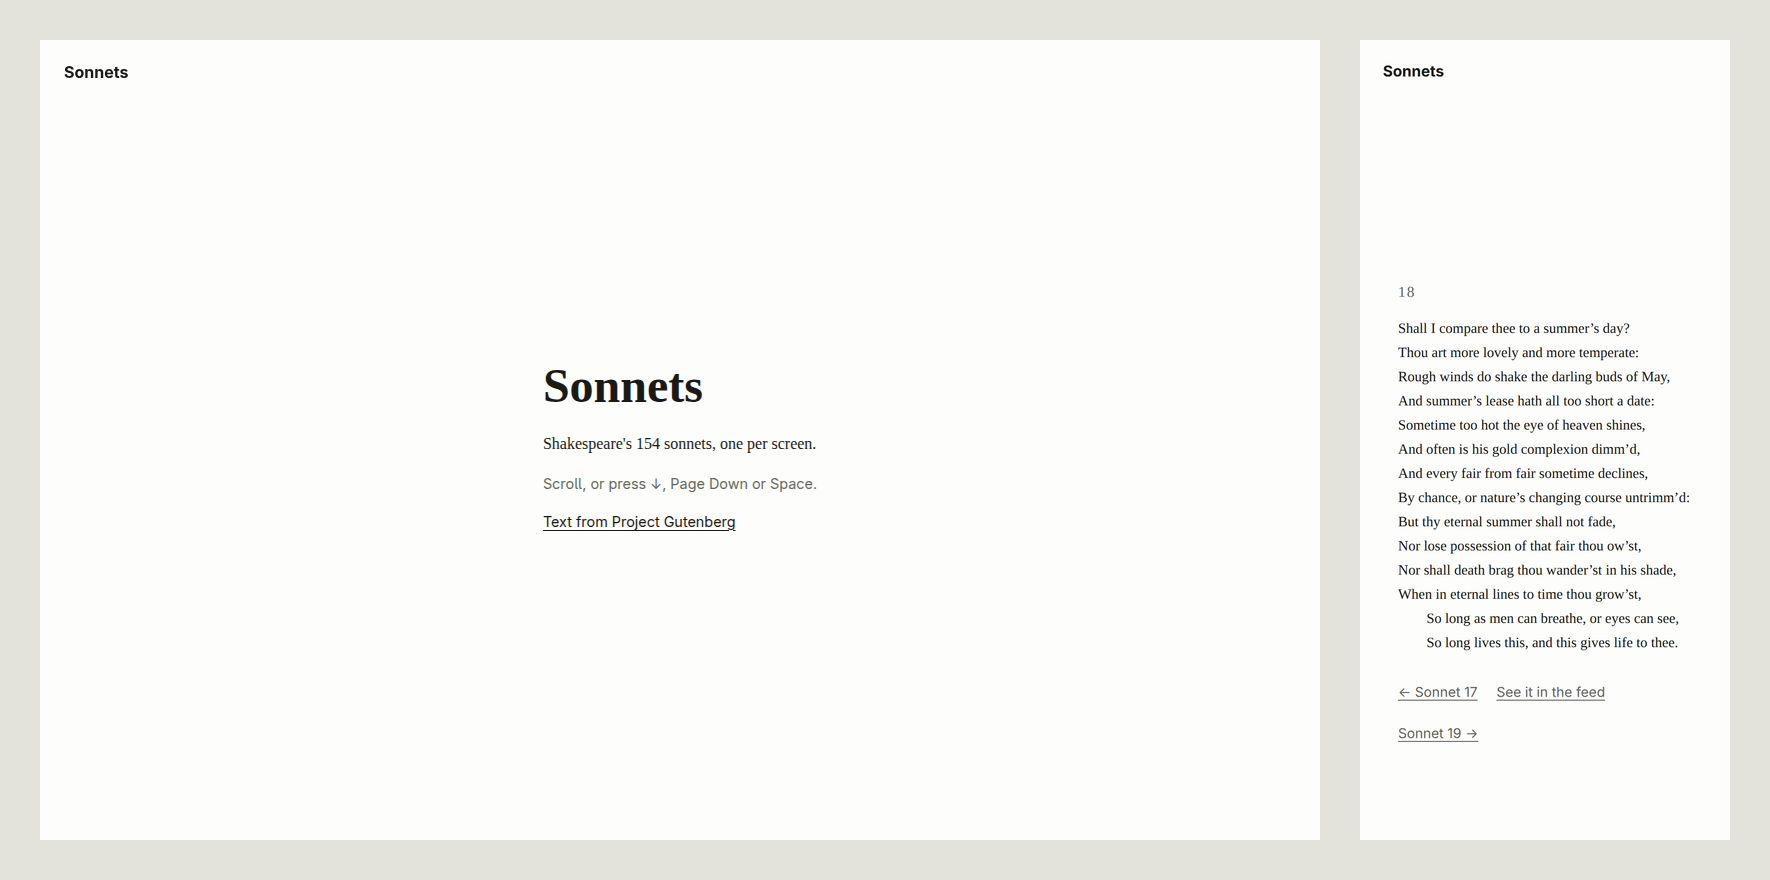
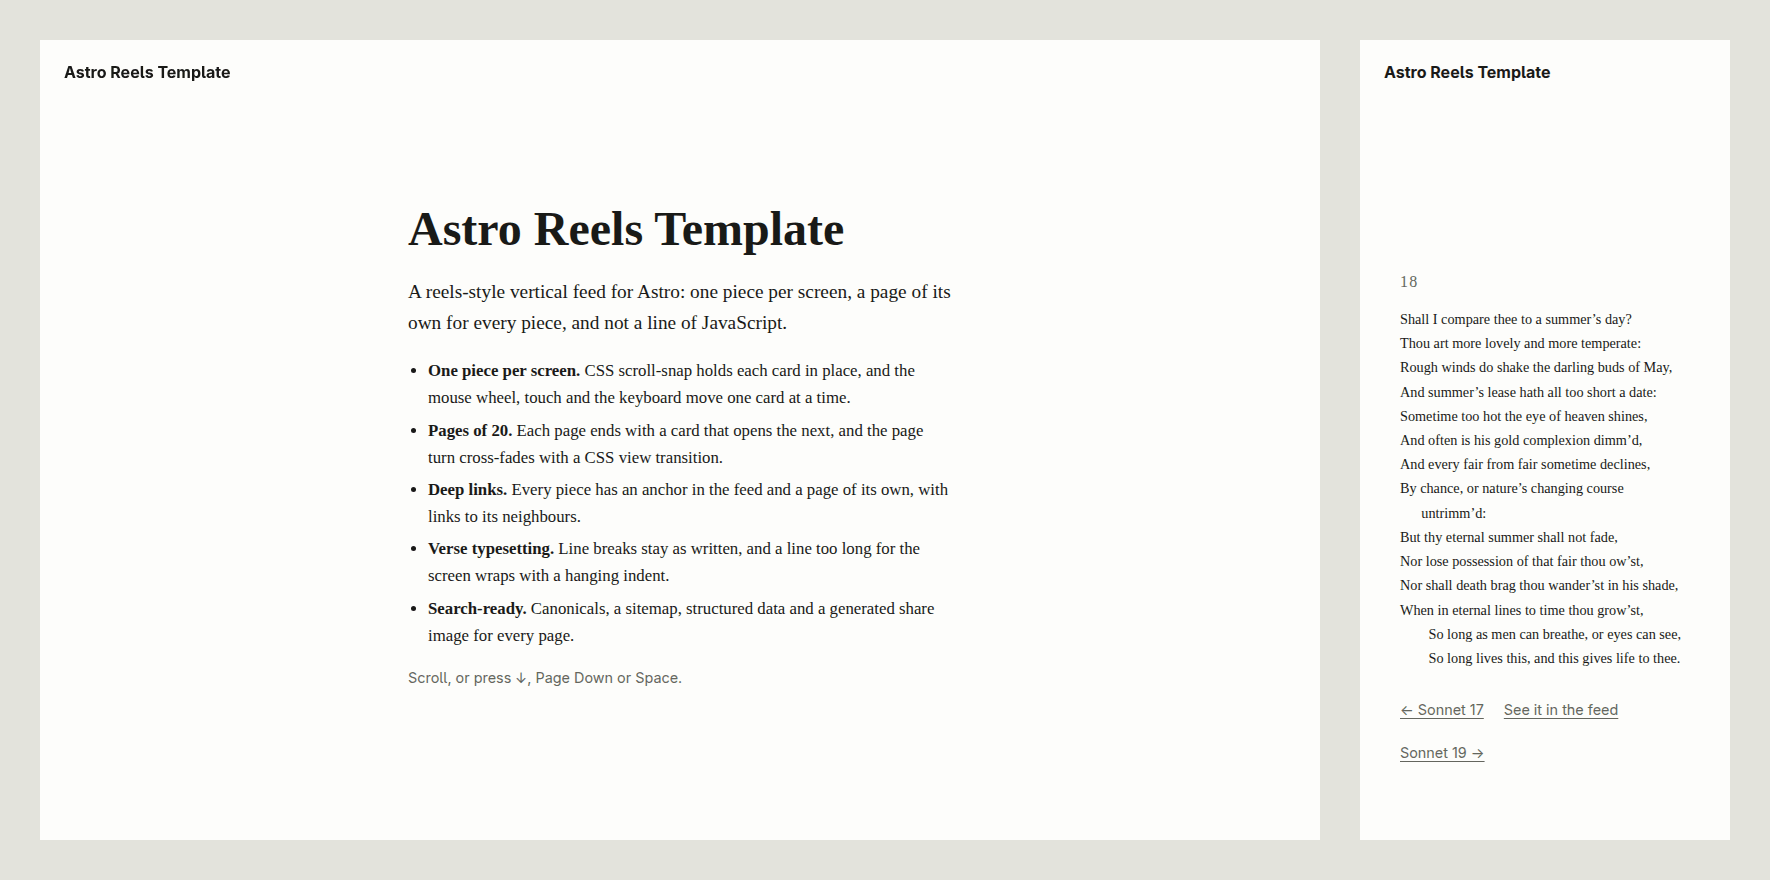
feat: introduce the template on the home page (#1)
* feat: introduce the template on the first feed cards

The demo was named "Sonnets", so its home page, the one page search engines index, described Shakespeare rather than the template, in eight words. It is now the Astro Reels Template, and the cards before the first sonnet say what the template is and does, how to start a project from it, and that the sonnets are public-domain demo content, with links to the source and the author: some 260 words of real HTML that need no JavaScript.

The cards live in src/components/Intro.astro so forks rewrite them in one place, and they are split in two so each fits a phone screen. The README gains the create command and the new step, and the screenshot shows the new first card.

* docs: add an SEO checklist to the README

A fork inherits the search setup without seeing it. The checklist lists what the template already does, explains the indexPieces option and what it changes, and names the values a fork must set before launch, ending with submitting the sitemap.

diff --git a/tests/build.test.ts b/tests/build.test.ts
@@ -149,8 +149,19 @@ test('no page ships JavaScript', () => {
   for (const file of allHtml(dist)) assert.deepEqual(scriptsOtherThanJsonLd(readFileSync(file, 'utf8')), [], file.pathname);
 });
 
-test('the intro card takes its line and source credit from the config', () => {
+test('the welcome cards take their line and source credit from the config', () => {
   const html = read('index.html');
-  assert.match(html, new RegExp(`<p>${esc(siteConfig.intro.replace(/'/g, '&#39;'))}</p>|<p>${esc(siteConfig.intro)}</p>`));
+  assert.match(html, new RegExp(`<p class="lead">${esc(siteConfig.intro.replace(/'/g, '&#39;'))}</p>|<p class="lead">${esc(siteConfig.intro)}</p>`));
   assert.match(html, new RegExp(`<a href="${esc(siteConfig.credit.href)}"[^>]*>${esc(siteConfig.credit.text)}</a>`));
+});
+
+test('the home page explains the template in its own words, before the first sonnet', () => {
+  const html = read('index.html');
+  const own = html.slice(html.indexOf('<main'), html.indexOf('<section class="card sonnet"'));
+  const words = own.replace(/<[^>]+>/g, ' ').split(/\s+/).filter((w) => /\w/.test(w));
+  assert.ok(words.length >= 250, `${words.length} words`);
+  assert.match(own, /<code>pnpm create astro@latest --template cevdetch\/astro-reels-template<\/code>/);
+  assert.match(own, /Shakespeare&#39;s 154 sonnets|Shakespeare's 154 sonnets/);
+  assert.match(own, new RegExp(`<a href="${esc(siteConfig.repository!)}">`));
+  assert.match(own, new RegExp(`<a href="${esc(siteConfig.author!.url!)}">Made by ${esc(siteConfig.author!.name)}</a>`));
 });

diff --git a/src/config.ts b/src/config.ts
@@ -1,14 +1,15 @@
-// Everything a template user changes lives here (plus the icons in public/).
+// Everything a template user changes lives here, plus the icons in public/ and the welcome cards in
+// src/components/Intro.astro.
 export const siteConfig: SiteConfig = {
-  name: 'Sonnets',
-  tagline: "Shakespeare's sonnets, one at a time",
-  description: "All 154 of Shakespeare's sonnets in a reels-style feed: one sonnet per screen, readable without JavaScript.",
+  name: 'Astro Reels Template',
+  tagline: 'a vertical feed with zero JavaScript',
+  description: "A zero-JavaScript, reels-style vertical feed template for Astro: one piece per screen and a page for each, demoed with Shakespeare's 154 sonnets.",
   origin: 'https://astro-reels-template.cevdet.ch',
   /** The path of feed page 1; later pages live at `<feedBase>page/<n>/`. */
   feedBase: '/',
   /** First feed card: one line under the name. */
-  intro: "Shakespeare's 154 sonnets, one per screen.",
-  /** Credit for the content, shown small on the first feed card. */
+  intro: 'A reels-style vertical feed for Astro: one piece per screen, a page of its own for every piece, and not a line of JavaScript.',
+  /** Credit for the content, shown on the welcome cards. */
   credit: { text: 'Text from Project Gutenberg', href: 'https://www.gutenberg.org/ebooks/1041' },
   /**
    * Whether search engines index each piece's page and the feed pages after the first. Leave it

diff --git a/src/styles/feed.css b/src/styles/feed.css
@@ -29,6 +29,15 @@
   .card-links { display: flex; flex-wrap: wrap; gap: 1.25rem; margin-block-start: 1.75rem; font-family: system-ui, sans-serif; font-size: 0.9rem; }
   .card-links a { color: var(--muted); }
   .intro h1 { margin: 0 0 0.5rem; font-size: clamp(2rem, 1.5rem + 2vw, 3rem); }
+  /* The welcome cards: prose rather than verse, sized to fit one phone screen each. */
+  .about { font-size: clamp(0.95rem, 0.9rem + 0.25vw, 1.05rem); }
+  .about .lead { font-size: 1.15em; }
+  .about h2 { margin: 1.5rem 0 0.5rem; font-size: 1.35em; }
+  .about h2:first-child { margin-block-start: 0; }
+  .about ul { padding-inline-start: 1.25rem; }
+  .about li + li { margin-block-start: 0.35rem; }
+  .about pre { margin: 0.75rem 0; padding: 0.75rem 1rem; border-radius: 4px; background: var(--bg-sunk); white-space: pre-wrap; overflow-wrap: anywhere; }
+  .about code { font-family: ui-monospace, "SF Mono", Menlo, Consolas, monospace; font-size: 0.85em; }
   .hint { color: var(--muted); font-family: system-ui, sans-serif; font-size: 0.9rem; }
   .next a, .previous a { font-size: 1.25rem; }
 
@@ -44,6 +53,9 @@
   @media (max-height: 780px) {
     .card { padding-block: 4rem 2rem; }
     .verse { line-height: 1.55; }
+    .about { line-height: 1.45; }
+    .about h2 { margin-block-start: 1rem; }
+    .about p, .about ul { margin-block: 0.6rem; }
   }
 }
 

diff --git a/tests/seo.test.ts b/tests/seo.test.ts
@@ -8,16 +8,16 @@ const ctx = (pathname: string, extra: Partial<SeoContext> = {}): SeoContext =>
 
 test('the home page title is the site name, a colon and the tagline', async () => {
   const seo = await resolveSeo({ description: 'A description.' }, ctx('/'));
-  assert.equal(SITE_NAME, 'Sonnets');
-  assert.equal(HOME_TITLE, "Sonnets: Shakespeare's sonnets, one at a time");
+  assert.equal(SITE_NAME, 'Astro Reels Template');
+  assert.equal(HOME_TITLE, 'Astro Reels Template: a vertical feed with zero JavaScript');
   assert.equal(seo.title, HOME_TITLE);
   assert.equal(seo.ogTitle, SITE_NAME);
   assert.equal(seo.canonicalUrl, 'https://example.test/');
 });
 
-test('other pages lead with their title, end in " · Sonnets" and get a self canonical', async () => {
+test('other pages lead with their title, end in " · <site name>" and get a self canonical', async () => {
   const seo = await resolveSeo({ title: 'About', description: 'About this site.' }, ctx('/about/'));
-  assert.equal(seo.title, 'About · Sonnets');
+  assert.equal(seo.title, 'About · Astro Reels Template');
   assert.equal(seo.robots, undefined);
   assert.equal(seo.ogTitle, 'About');
   assert.equal(seo.canonicalUrl, 'https://example.test/about/');

diff --git a/README.md b/README.md
@@ -32,6 +32,15 @@ share sheet; each piece's own page is the link to share.
 - Node.js 24.8.0 or newer
 - pnpm 12.3.4, pinned in `package.json`
 
+## Start a project
+
+```sh
+pnpm create astro@latest --template cevdetch/astro-reels-template
+```
+
+Or create a repository with [Use this template](https://github.com/cevdetch/astro-reels-template/generate)
+and clone it.
+
 ## Commands
 
 | Command | Purpose |
@@ -47,7 +56,7 @@ share sheet; each piece's own page is the link to share.
 ## Make it yours
 
 1. **Site details.** Edit `src/config.ts`: the name, tagline, description, production `origin`,
-   the line and credit on the first card, and `feedBase` if the feed should live somewhere other
+   the line and credit on the welcome cards, and `feedBase` if the feed should live somewhere other
    than `/`. Set `author` to yourself and `repository` to your source code: the footer of every
    page credits both, and the home page's `WebSite` structured data names the author as its
    publisher. Either can be left out.
@@ -56,8 +65,11 @@ share sheet; each piece's own page is the link to share.
    the first carry `<meta name="robots" content="noindex, follow">` and are left out of the
    sitemap, so search engines index only the first feed page but still follow its links. Set it
    to `true` when the pieces are your own, and every page goes into search and the sitemap.
-3. **Icons.** Replace the files in `public/`; the share images reuse `public/icon.svg`.
-4. **Pieces.** Each piece is a Markdown file in `src/content/sonnets/`:
+3. **Welcome cards.** `src/components/Intro.astro` holds the cards before the first piece. They
+   introduce this template; say what your site is instead. They are the text search engines read
+   on your home page.
+4. **Icons.** Replace the files in `public/`; the share images reuse `public/icon.svg`.
+5. **Pieces.** Each piece is a Markdown file in `src/content/sonnets/`:
 
    ```markdown
    ---
@@ -75,12 +87,12 @@ share sheet; each piece's own page is the link to share.
    line of the body is a line on the page. Start a line with two spaces or two em spaces to
    indent it; a blank line starts a new stanza. The body is shown as plain lines, not formatted
    Markdown.
-5. **Words.** The section is called `sonnets` in the content folder, `src/content.config.ts`,
+6. **Words.** The section is called `sonnets` in the content folder, `src/content.config.ts`,
    the routes under `src/pages/sonnets/`, `src/lib/sonnets.ts` and `PIECES_PATH` in
    `src/lib/seo.ts`. The share-image label lives in `SECTIONS` in `src/lib/social-card.ts`, and
    the pieces' author in their structured data in `src/lib/identity.ts`. Rename them together for
    your own kind of piece.
-6. **Page size.** `PAGE_SIZE` in `src/lib/feed.ts`.
+7. **Page size.** `PAGE_SIZE` in `src/lib/feed.ts`.
 
 ## Deploy
 
@@ -88,6 +100,39 @@ share sheet; each piece's own page is the link to share.
 static hosts such as Cloudflare Pages, Netlify and GitHub Pages serve from `index.html` files.
 Set `origin` in `src/config.ts` to the production address first: canonicals, the sitemap and
 share images use it.
+
+## SEO checklist
+
+What the template does for search:
+
+- Every page has one title: `<Page> · <Site>`, or `<Site>: <tagline>` on the home page.
+- Every page has a description of up to 160 characters (longer ones fail the build), a
+  self-referencing canonical in the trailing-slash form, Open Graph tags, a 1200×630 share image
+  and `twitter:card`.
+- The home page carries `WebSite` structured data with the author as publisher; each piece's page
+  carries `CreativeWork`.
+- `robots.txt` allows crawling and names the sitemap index. The sitemap lists only pages meant for
+  search.
+- The 404 page is served as `404.html`, `noindex` and without a canonical.
+- Every page reads in full without JavaScript, and `pnpm lint:html` audits the built HTML.
+
+The index option, `indexPieces` in `src/config.ts`:
+
+- `false` (the default, for demo text or text published elsewhere): each piece's page and the
+  feed pages after the first carry `noindex, follow` and stay out of the sitemap. Only the home
+  page is indexed, so it needs words of its own: the welcome cards.
+- `true` (for your own pieces): every page except the 404 is indexed and listed in the sitemap.
+
+What a fork must set before launch:
+
+1. `origin` in `src/config.ts`: canonicals, the sitemap, `robots.txt` and share images use it.
+2. `name`, `tagline` and `description`, written for the people searching for your site.
+3. `author` and `repository`, or remove them.
+4. `indexPieces`, as above.
+5. The welcome cards in `src/components/Intro.astro`, and the pieces' author in
+   `src/lib/identity.ts`.
+6. Run `pnpm verify`, deploy, then submit `/sitemap-index.xml` to Google Search Console and Bing
+   Webmaster Tools.
 
 ## Acknowledgements
 
